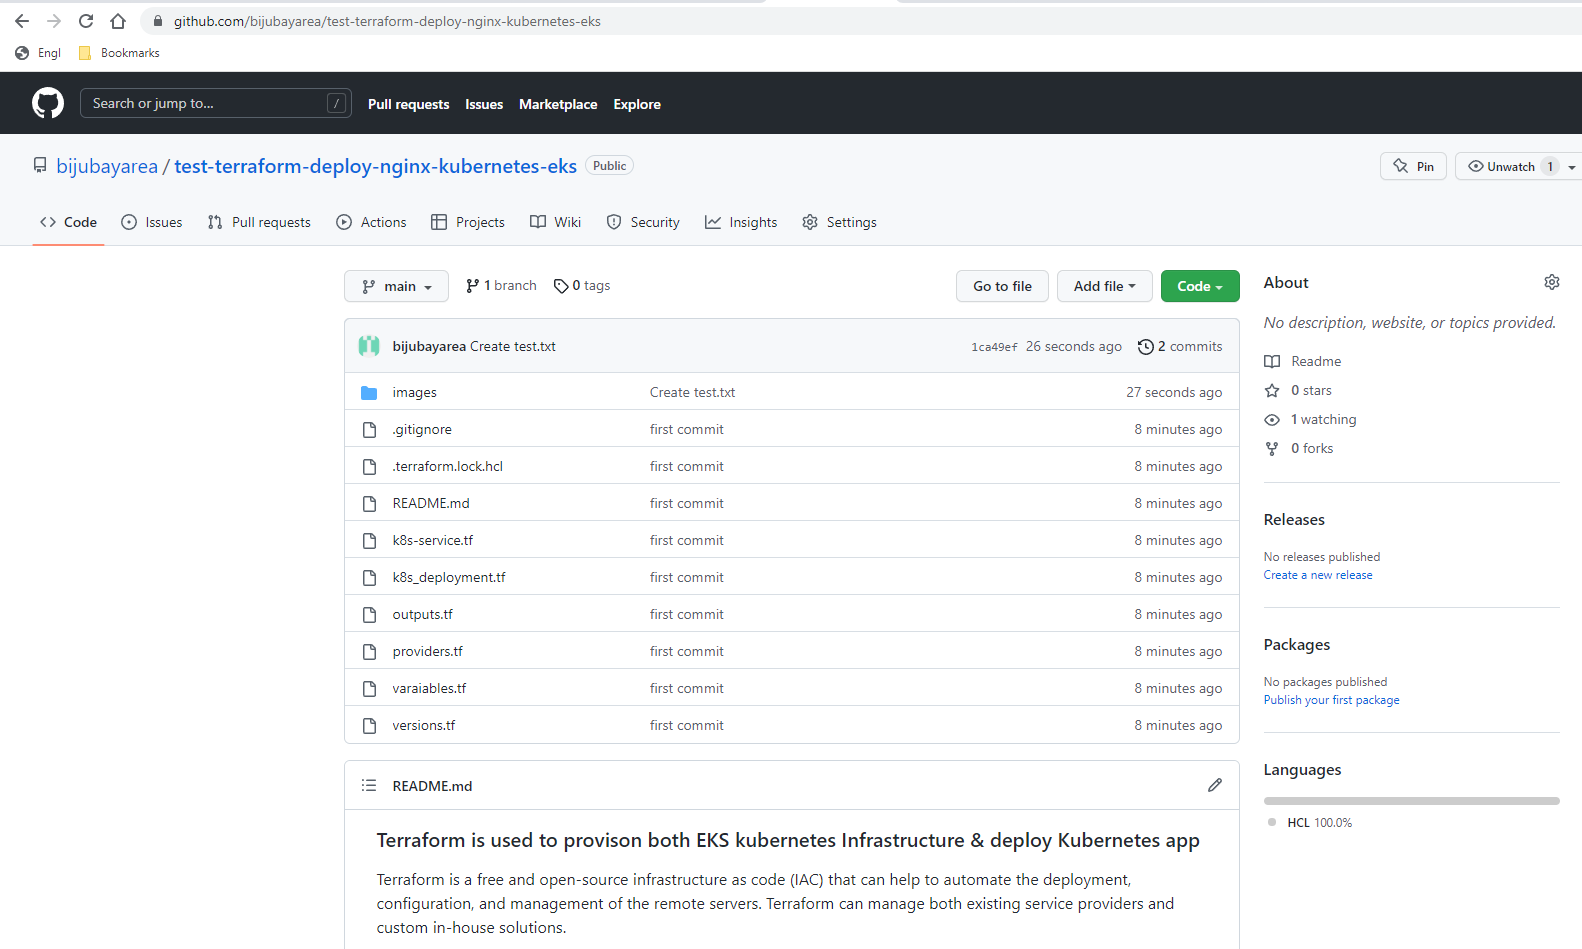
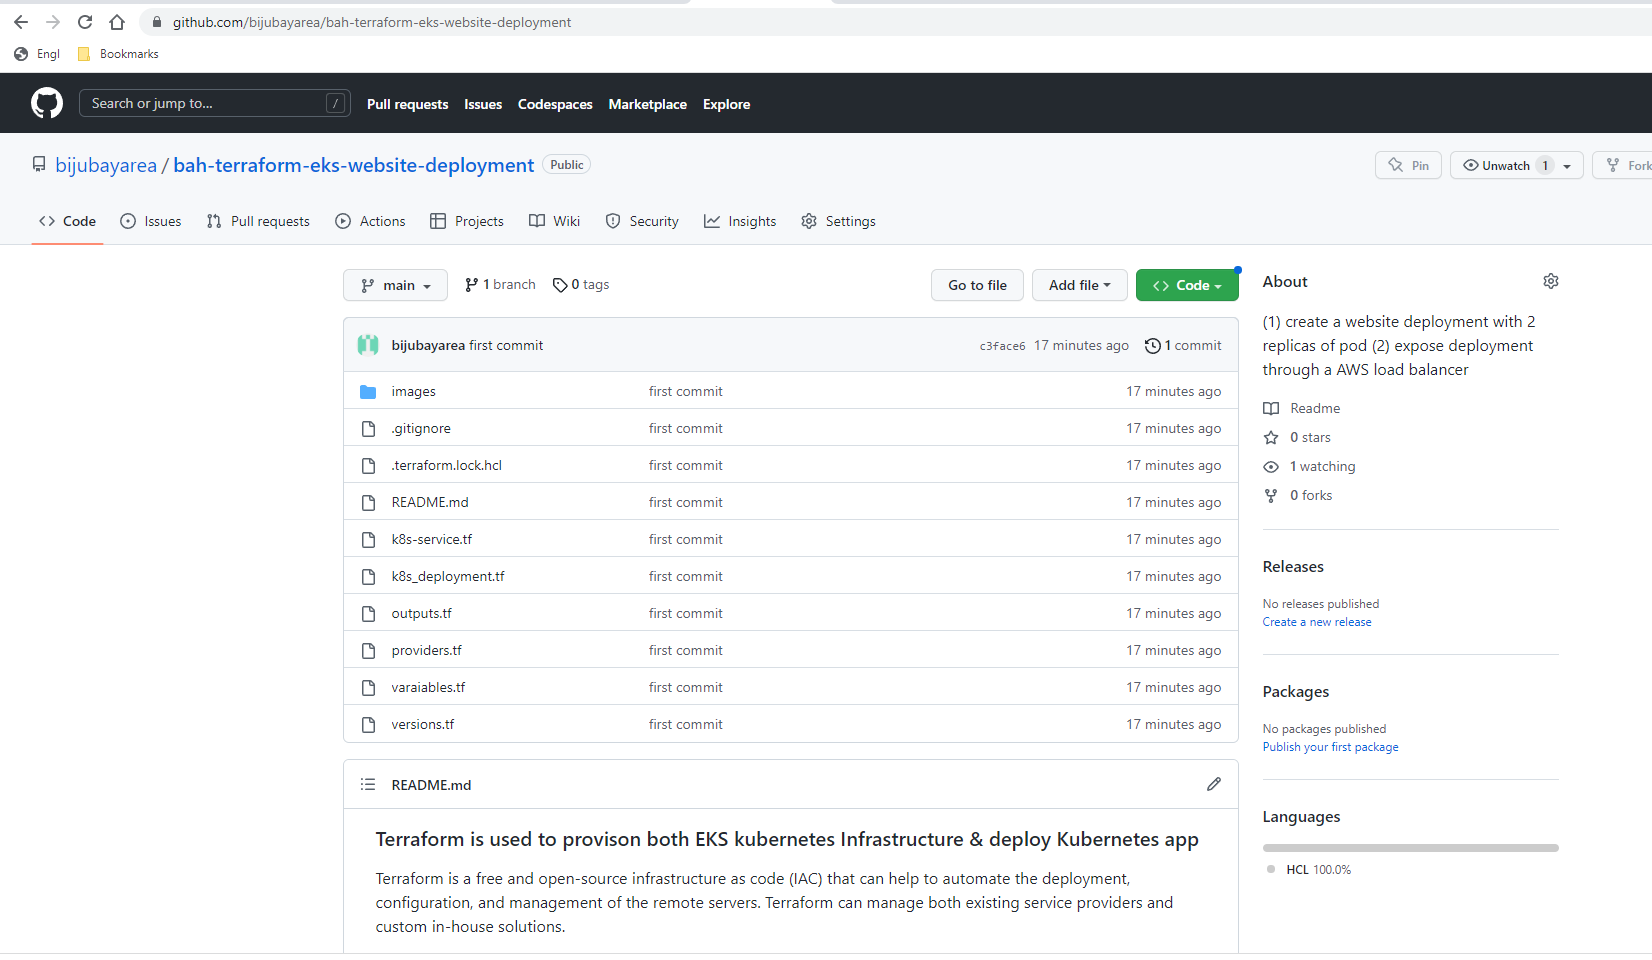
changes to images & readme

diff --git a/README.md b/README.md
@@ -7,14 +7,13 @@ Terraform is a free and open-source infrastructure as code (IAC) that can help t
 
 
 This terraform github repo deploys simple nginx application in EKS cluster
-* Create the Kubernetes deployment using "nginx" image with replicas=2 in node_group_one
+* Create the Kubernetes deployment using "personal-website" image with replicas=2 in node_group_one
 * Create a service of type=LoadBalancer  to expose app for simple external access
-* initContainer of deployment used to manipulate /usr/share/nginx/html/index.html to display
-* Welcome to  POD:\<pod-name\>    NODE:\<node-name\>    NAMESPACE:\<namespace\>   POD_IP:\<pod-ip\>
+
 
 **Desired Output:**
 
-![2](https://github.com/bijubayarea/test-terraform-deploy-nginx-kubernetes-eks/blob/main/images/6.png)
+![2](https://github.com/bijubayarea/bah-terraform-eks-website-deployment/blob/main/images/6.png)
 
 **Prerequisites:**
 
@@ -71,58 +70,17 @@ This terraform github repo deploys simple nginx application in EKS cluster
   }
   ```
  
-**Step 3:  Create `.tf` file for K8s deployment : NGINX webserver** 
+**Step 3:  Create `.tf` file for K8s deployment : Personal website** 
 
 * Create `k8s-deployment.tf` file for VPC and add below content in it
-* Below in yaml format for easier readabilty (But terraform code used to deploy)
 
-  ```
-  spec:
-      initContainers:
-      - name: nginx-init        
-        image: busybox:1.28
-		    
-        env:
-        - name: MY_NODE_NAME
-          valueFrom:
-            fieldRef:
-              apiVersion: v1
-              fieldPath: spec.nodeName
-        - name: MY_POD_NAME
-          valueFrom:
-            fieldRef:
-              apiVersion: v1
-              fieldPath: metadata.name
-        - name: MY_POD_NAMESPACE
-          valueFrom:
-            fieldRef:
-              apiVersion: v1
-              fieldPath: metadata.namespace
-        - name: MY_POD_IP
-          valueFrom:
-            fieldRef:
-              apiVersion: v1
-              fieldPath: status.podIP
-        command:
-        - sh
-        - -c
-        - echo Welcome to POD:$(MY_POD_NAME) NODE:$(MY_NODE_NAME) NAMESPACE:$(MY_POD_NAMESPACE)
-          POD_IP:$(MY_POD_IP)> /work-dir/index.html
-        
-        volumeMounts:
-        - mountPath: /work-dir
-          mountPropagation: None
-          name: workdir
-  ```
-* create k8s deployment "nginx" with replicas=2
-* pod containers: one is initContainer=nginx-init and container=nginx-pod-node
-* intContainer used to get environment variables: POD_NAME and NODE_NAME and write to /usr/share/nginx/html/index.html
-* pod ephemeral volume EmptyDir is attached to pod and mounted on both containers 
+* create k8s deployment "personal-website" with replicas=2
+* pod containers: iamge=personal-website:v2.1
 
   ```
   containers:
-      - name: nginx-pod-node
-        image: nginx:1.7.8
+      - name: personal-website
+        image: docker.io/bijubayarea/personal-website:v2.1
         ports:
         - containerPort: 80
           protocol: TCP
@@ -133,14 +91,7 @@ This terraform github repo deploys simple nginx application in EKS cluster
           requests:
             cpu: 250m
             memory: 50Mi
-        volumeMounts:
-        - mountPath: /usr/share/nginx/html
-          mountPropagation: None
-          name: workdir
       
-      volumes:
-      - emptyDir: {}
-        name: workdir
   ```
 
 **Step 4: Create .tf file to expose k8s deploy as service=Loadbalancer**
@@ -153,6 +104,8 @@ This terraform github repo deploys simple nginx application in EKS cluster
   kind: Service
   metadata:
     name: nginx-service
+    labels:
+      personal-website
   spec:
     ports:
     - nodePort: 31754
@@ -160,7 +113,7 @@ This terraform github repo deploys simple nginx application in EKS cluster
       protocol: TCP
       targetPort: 80
     selector:
-      App: nginx-pod-node
+      app: personal-website
     type: LoadBalancer
   ```
   
@@ -171,18 +124,25 @@ This terraform github repo deploys simple nginx application in EKS cluster
 
   ```
   output "lb_ip" {
-    value = kubernetes_service.nginx.status.0.load_balancer.0.ingress.0.hostname
+    value = kubernetes_service.web-service.status.0.load_balancer.0.ingress.0.hostname
   }
 
   ```
 * output the name of the LoadBalancer.
+
+ ```
+  Outputs:
+
+  load_balancer_ip = "a5499191dfdf84a67806f20ef474042c-986305581.us-west-2.elb.amazonaws.com"
+
+  ```
 
 
 **Step 6: Store our code to GitHub Repository**
 
 * store the code in the GitHub repository
 
-![2](https://github.com/bijubayarea/test-terraform-deploy-nginx-kubernetes-eks/blob/main/images/2.png)
+![2](https://github.com/bijubayarea/bah-terraform-eks-website-deployment/blob/main/images/2.png)
 
 **Step 7: Initialize the working directory**
 
@@ -195,7 +155,7 @@ This terraform github repo deploys simple nginx application in EKS cluster
   ```
   Plan: 6 to add, 0 to change, 0 to destroy.
   Changes to Outputs:
-  + lb_ip           = (known after apply)
+  + load_balancer_ip           = (known after apply)
 
   ```
 
@@ -215,7 +175,7 @@ This terraform github repo deploys simple nginx application in EKS cluster
 
   ```
   $ terraform output
-  lb_ip = "ac32240ec0119446cbbad59de348fd7e-2131601910.us-west-2.elb.amazonaws.com"
+  load_balancer_ip = "a5499191dfdf84a67806f20ef474042c-986305581.us-west-2.elb.amazonaws.com"
 
   ```
 
@@ -237,21 +197,23 @@ This terraform github repo deploys simple nginx application in EKS cluster
 1. k8s deployment:
   ```
   $ kubectl get nodes
-  NAME                                       STATUS   ROLES    AGE   VERSION
-  ip-10-0-1-118.us-west-2.compute.internal   Ready    <none>   13h   v1.23.9-eks-ba74326
-  ip-10-0-2-251.us-west-2.compute.internal   Ready    <none>   13h   v1.23.9-eks-ba74326
+  NAME                                       STATUS   ROLES    AGE    VERSION
+  ip-10-0-1-233.us-west-2.compute.internal   Ready    <none>   117m   v1.23.13-eks-fb459a0
+  ip-10-0-1-68.us-west-2.compute.internal    Ready    <none>   117m   v1.23.13-eks-fb459a0
+  ip-10-0-2-5.us-west-2.compute.internal     Ready    <none>   117m   v1.23.13-eks-fb459a0
+  ip-10-0-3-251.us-west-2.compute.internal   Ready    <none>   117m   v1.23.13-eks-fb459a0
   
-  $ kubectl get deploy nginx -o wide
-  NAME    READY   UP-TO-DATE   AVAILABLE   AGE   CONTAINERS       IMAGES        SELECTOR
-  nginx   2/2     2            2           9h    nginx-pod-node   nginx:1.7.8   App=nginx-pod-node
+  $  kubectl get deploy personal-website -o wide
+  NAME               READY   UP-TO-DATE   AVAILABLE   AGE   CONTAINERS         IMAGES                                        SELECTOR
+  personal-website   2/2     2            2           98m   personal-website   docker.io/bijubayarea/personal-website:v2.1   app=personal-website
   
   $ kubectl  get pods -o wide
-  NAME                    READY   STATUS    RESTARTS   AGE   IP           NODE                                       NOMINATED NODE   READINESS GATES
-  nginx-b4988fd99-5hvj8   1/1     Running   0          9h    10.0.1.100   ip-10-0-1-118.us-west-2.compute.internal   <none>           <none>
-  nginx-b4988fd99-pk2cz   1/1     Running   0          9h    10.0.2.90    ip-10-0-2-251.us-west-2.compute.internal   <none>           <none>
+  NAME                                READY   STATUS    RESTARTS   AGE   IP           NODE                                       NOMINATED NODE   READINESS GATES
+  personal-website-698d8c97b4-hhgx7   1/1     Running   0          37m   10.0.1.193   ip-10-0-1-233.us-west-2.compute.internal   <none>           <none>
+  personal-website-698d8c97b4-p8qmk   1/1     Running   0          37m   10.0.2.144   ip-10-0-2-5.us-west-2.compute.internal     <none>           <none>
 
   ```
-![3](https://github.com/bijubayarea/test-terraform-deploy-nginx-kubernetes-eks/blob/main/images/3.png)
+![3](https://github.com/bijubayarea/bah-terraform-eks-website-deployment/blob/main/images/3.png)
 
 2. k8s service=LoadBalancer:
    ```
@@ -281,7 +243,7 @@ This terraform github repo deploys simple nginx application in EKS cluster
    Events:                   <none>
 
    ```
-![4](https://github.com/bijubayarea/test-terraform-deploy-nginx-kubernetes-eks/blob/main/images/4.png)
+![4](https://github.com/bijubayarea/bah-terraform-eks-website-deployment/blob/main/images/4.png)
 
 
 * Kubernetes cluster is ready 
@@ -313,4 +275,4 @@ This terraform github repo deploys simple nginx application in EKS cluster
   Welcome to POD:nginx-b4988fd99-5hvj8 NODE:ip-10-0-1-118.us-west-2.compute.internal NAMESPACE:default POD_IP:10.0.1.100
 
   ```
-  ![5](https://github.com/bijubayarea/test-terraform-deploy-nginx-kubernetes-eks/blob/main/images/5.png)
+  ![5](https://github.com/bijubayarea/bah-terraform-eks-website-deployment/blob/main/images/5.png)
